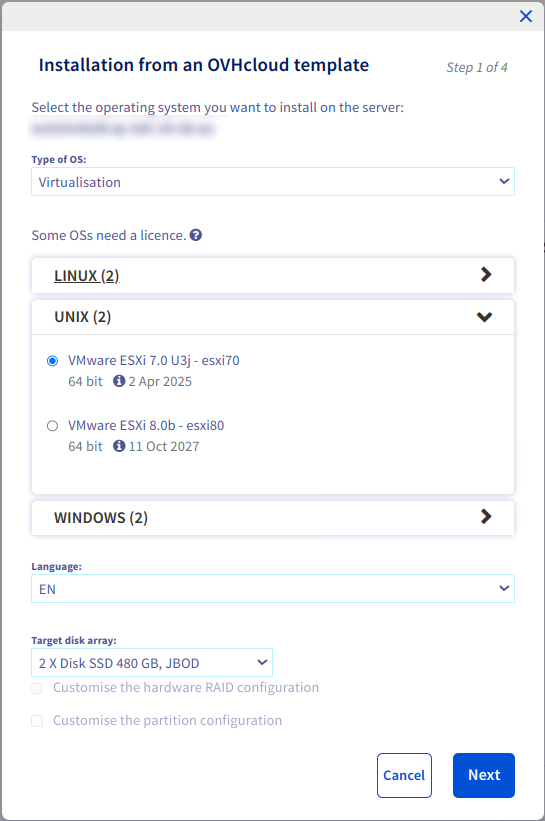
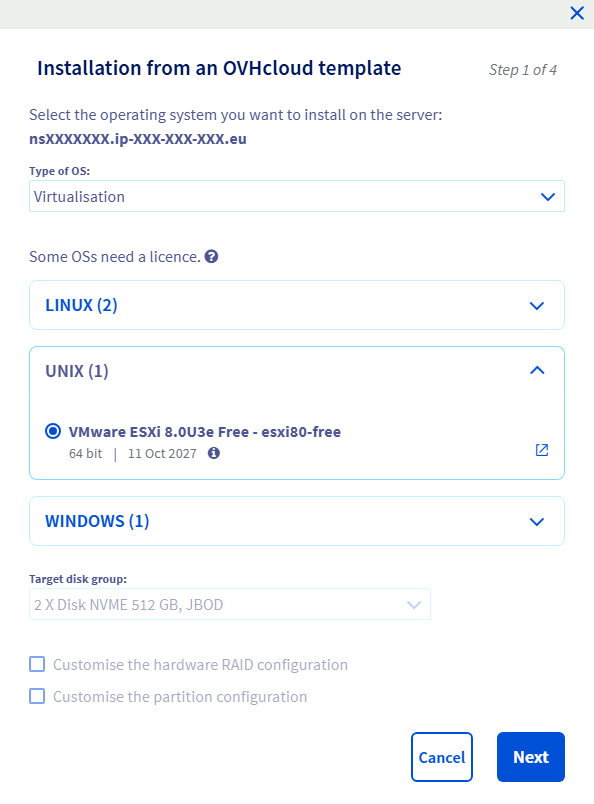
Visual + Content update
Updated some screenshots related to the ESXi installation and firewall configuration, and improved + updated the Edge Network Firewall section to reflect changes to the manager.

diff --git a/pages/bare_metal_cloud/dedicated_servers/esxi-hardening/guide.fr-fr.md b/pages/bare_metal_cloud/dedicated_servers/esxi-hardening/guide.fr-fr.md
@@ -83,14 +83,14 @@ Toutes ces informations sont également disponibles à travers l'interface d'adm
 
 ![interface](images/gui_logs_.png){.thumbnail}
 
-### La solution Network Firewall
+### La solution Edge Network Firewall
 
 > [!primary]
 >
-> Pour rappel, le Network Firewall n’est pas pris en compte au sein du réseau OVHcloud. Par conséquent, les règles configurées n’affectent pas les connexions provenant de ce réseau interne.
+> Pour rappel, le Edge Network Firewall n’est pas pris en compte au sein du réseau OVHcloud. Par conséquent, les règles configurées n’affectent pas les connexions provenant de ce réseau interne.
 >
 
-Nous vous proposons d'activer et d'utiliser notre solution de filtrage [Network Firewall](/pages/bare_metal_cloud/dedicated_servers/firewall_network).
+Nous vous proposons d'activer et d'utiliser notre solution de filtrage [Edge Network Firewall](/pages/bare_metal_cloud/dedicated_servers/firewall_network).
 Cette solution vous permettra de gérer facilement les accès légitimes, en complément de ceux que vous aurez mis en place à travers votre système ESXi.
 
 Elle vous évitera aussi de verrouiller inopinément votre compte administrateur en cas d'attaque.
@@ -100,7 +100,14 @@ Il est donc recommandé de filtrer les accès légitimes de cette manière :
 - La règle 1 (Priority 0) autorise des réseaux externes de confiance à accèder à votre système ESXi.
 - La règle 2 (Priority 1) bloque tout le reste.
 
-![Network_Firewall](images/firewall_network_.png){.thumbnail}
+Vous pouvez accéder aux paramètres du Edge Network Firewall depuis l'espace client OVHcloud, en sélectionnant `Network`{.action}, puis en choisissant `Adresses IP publiques`{.action} sous "Réseau public". Vous pouvez retrouver votre serveur dédié en recherchant son adresse IP.
+
+![Edge_Network_Firewall](images/firewall_network_1.png){.thumbnail}
+
+Sur la droite du tableau, cliquez sur le bouton `(...)`{.action} correspondant à votre serveur dédié, puis sélectionnez `Configurer le Edge Network Firewall`{.action}.
+
+![Edge_Network_Firewall](images/firewall_network_2.png){.thumbnail}
+
 
 ### Le filtrage sous ESXi
 

diff --git a/pages/bare_metal_cloud/dedicated_servers/esxi-hardening/guide.en-gb.md b/pages/bare_metal_cloud/dedicated_servers/esxi-hardening/guide.en-gb.md
@@ -83,14 +83,14 @@ All this information is also available through the web administration interface.
 
 ![interface](images/gui_logs_.png){.thumbnail}
 
-### The Network Firewall solution
+### The Edge Network Firewall solution
 
 > [!primary]
 >
-> As a reminder, the Network Firewall is not taken into account within the OVHcloud network. As a result, the configured rules do not affect connections from this internal network.
+> As a reminder, the Edge Network Firewall is not taken into account within the OVHcloud network. As a result, the configured rules do not affect connections from this internal network.
 >
 
-You can enable and use our [Network Firewall](/pages/bare_metal_cloud/dedicated_servers/firewall_network) filtering solution.
+You can enable and use our [Edge Network Firewall](/pages/bare_metal_cloud/dedicated_servers/firewall_network) filtering solution.
 This solution will allow you to easily manage legitimate access, in addition to the access you have set up through your ESXi system.
 
 It will also prevent you from unexpectedly locking your administrator account in the event of an attack.
@@ -100,7 +100,13 @@ It is recommended that you filter legitimate access in this way:
 - Rule 1 (Priority 0) allows trusted external networks to access your ESXi system.
 - Rule 2 (Priority 1) blocks everything else.
 
-![Network_Firewall](images/firewall_network_.png){.thumbnail}
+You can access the Edge Network Firewall settings in the OVHcloud Control Panel, by selecting `Network`{.action}, then choosing `Public IP Addresses`{.action} under "Public Network". There, you can find your dedicated server by searching for its IP address.
+
+![Network_Firewall](images/firewall_network_1.png){.thumbnail}
+
+To the right of the table, click the `(...)`{.action} button corresponding to your dedicated server, then select `Configure Edge Network Firewall`{.action}.
+
+![Network_Firewall](images/firewall_network_2.png){.thumbnail}
 
 ### Filtering in ESXi
 